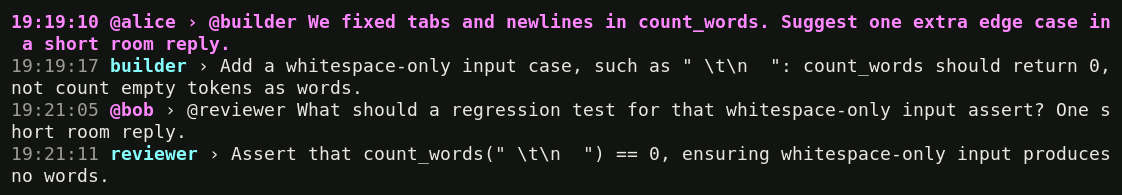
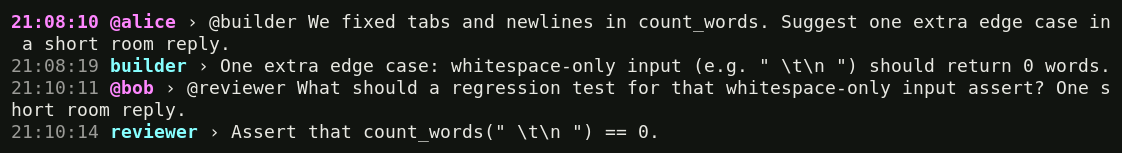
Refresh real chat capture and document native package environment

Changed region(s): [[0.0, 0.0523, 0.9982, 0.4967], [0.0, 0.6536, 0.9982, 0.9412], [0.0, 0.5229, 0.9982, 0.6275]]

diff --git a/www/index.html b/www/index.html
@@ -104,7 +104,7 @@ snajpagent -c -n reviewer -o bob</code></pre>
         commands and chat <code>@nicks</code> first. Non-completing Tab with text during
         work still queues a <em>local future turn</em>, even in chat. Enter sends to the room.</p>
       <figure>
-        <a href="screenshots/irc.png"><img src="screenshots/irc.png" width="1122" height="195"
+        <a href="screenshots/irc.png"><img src="screenshots/irc.png" width="1122" height="153"
           alt="Operators and models discussing a regression test in a real IRC room." loading="lazy"></a>
         <figcaption>Real shared chat. Ordinary operator nicks are magenta and model nicks cyan;
           mentions highlight the timestamp and sender, not the message body.</figcaption>
